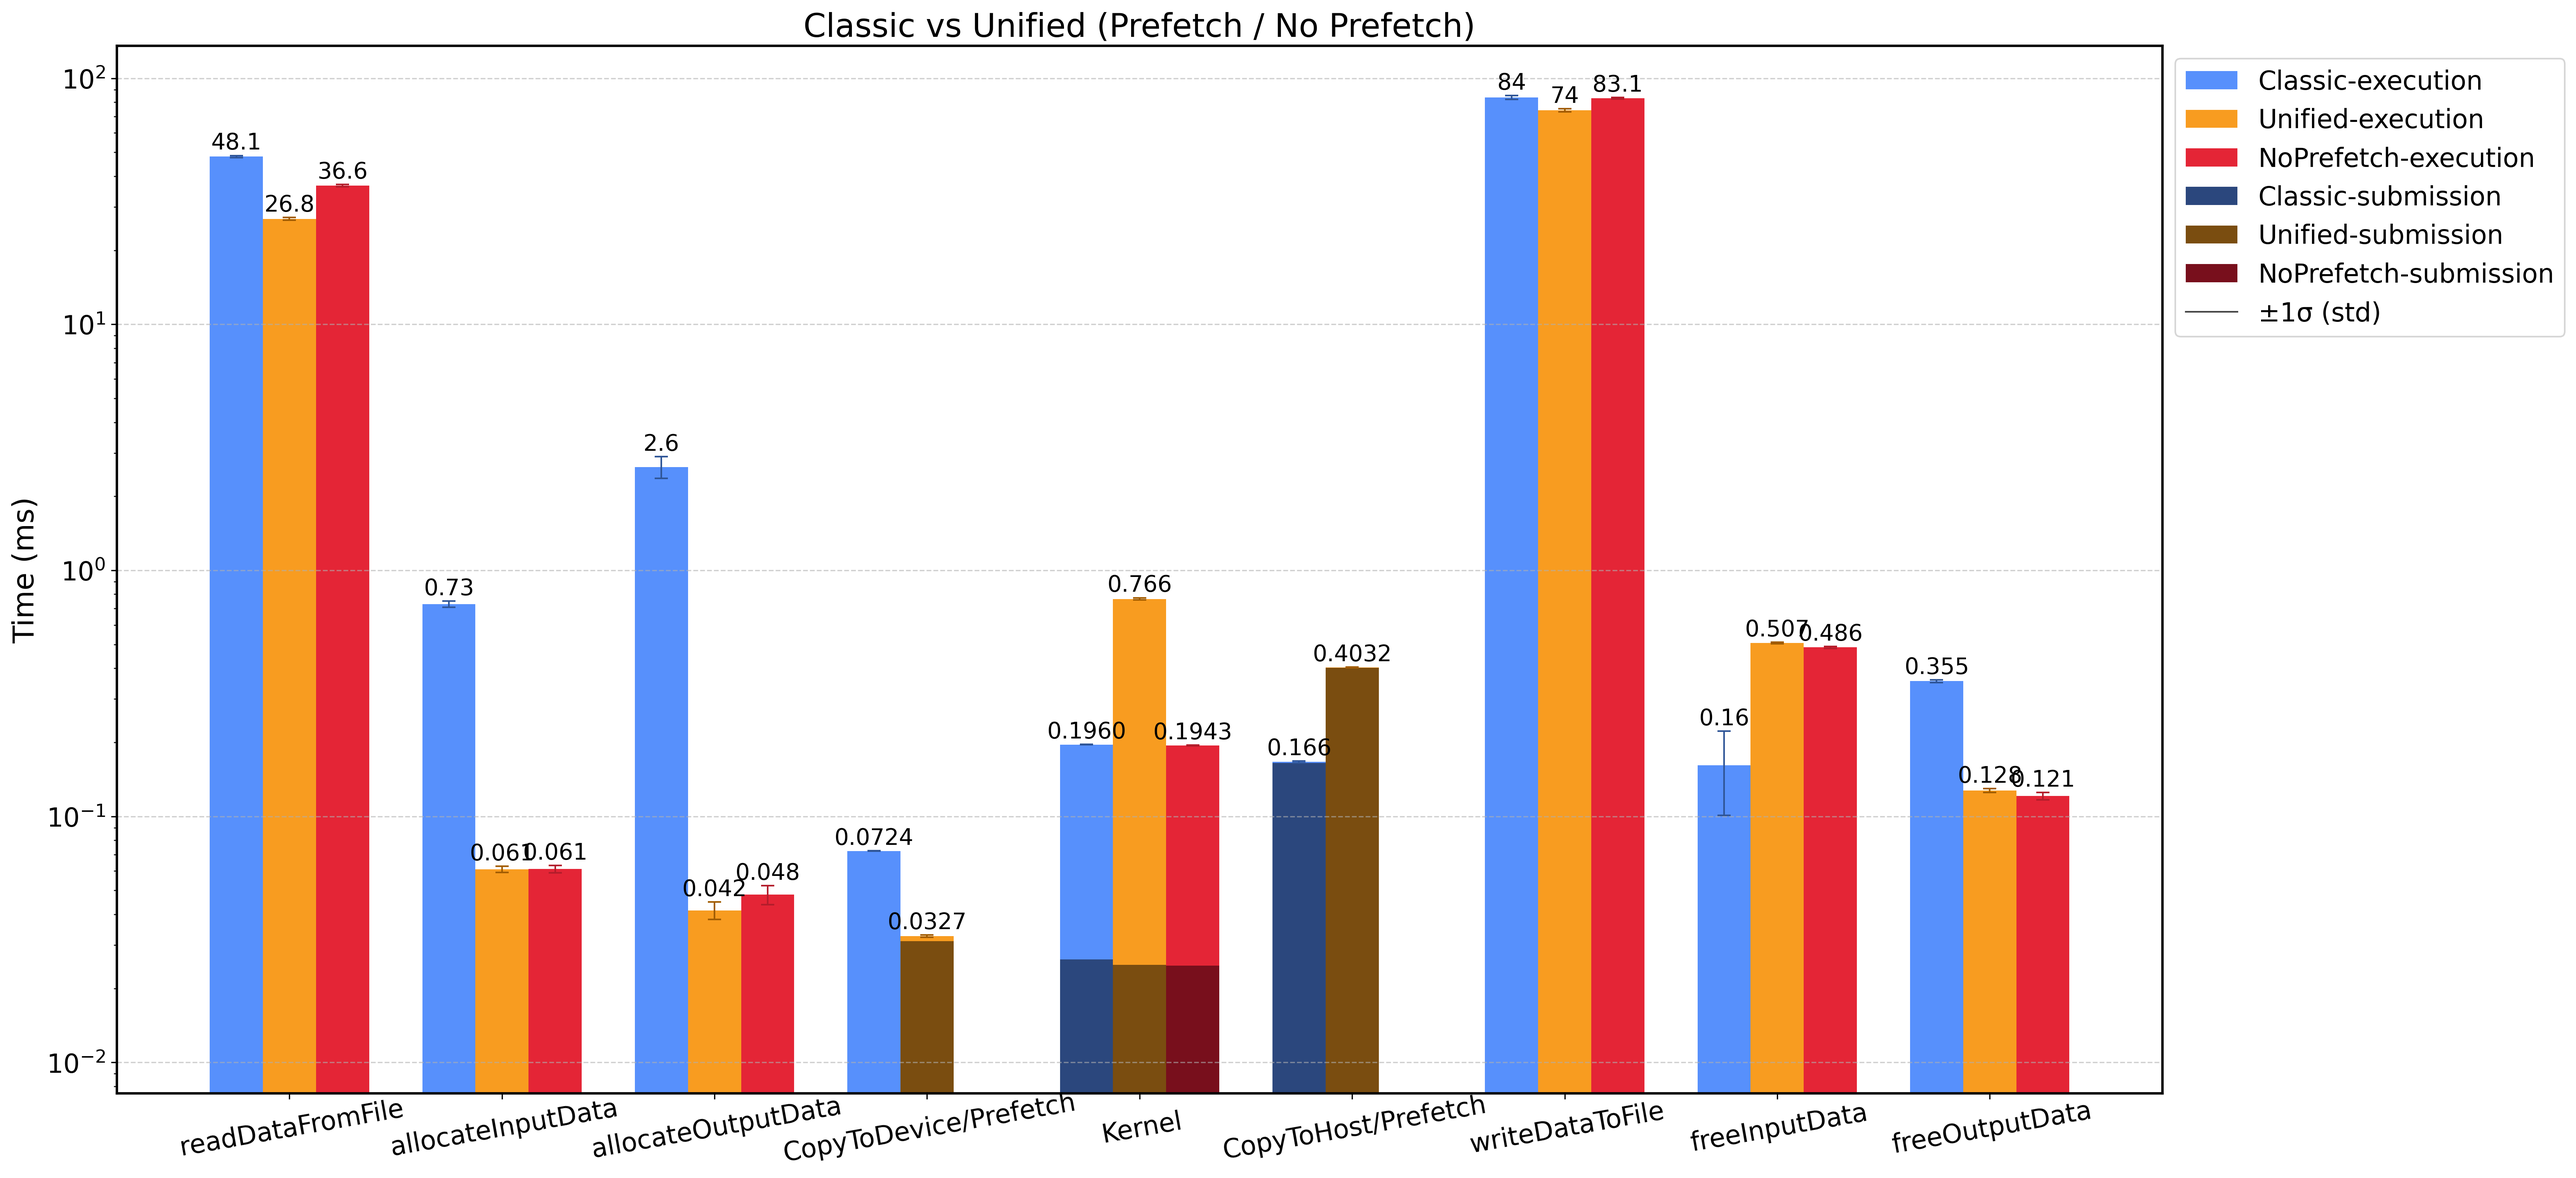
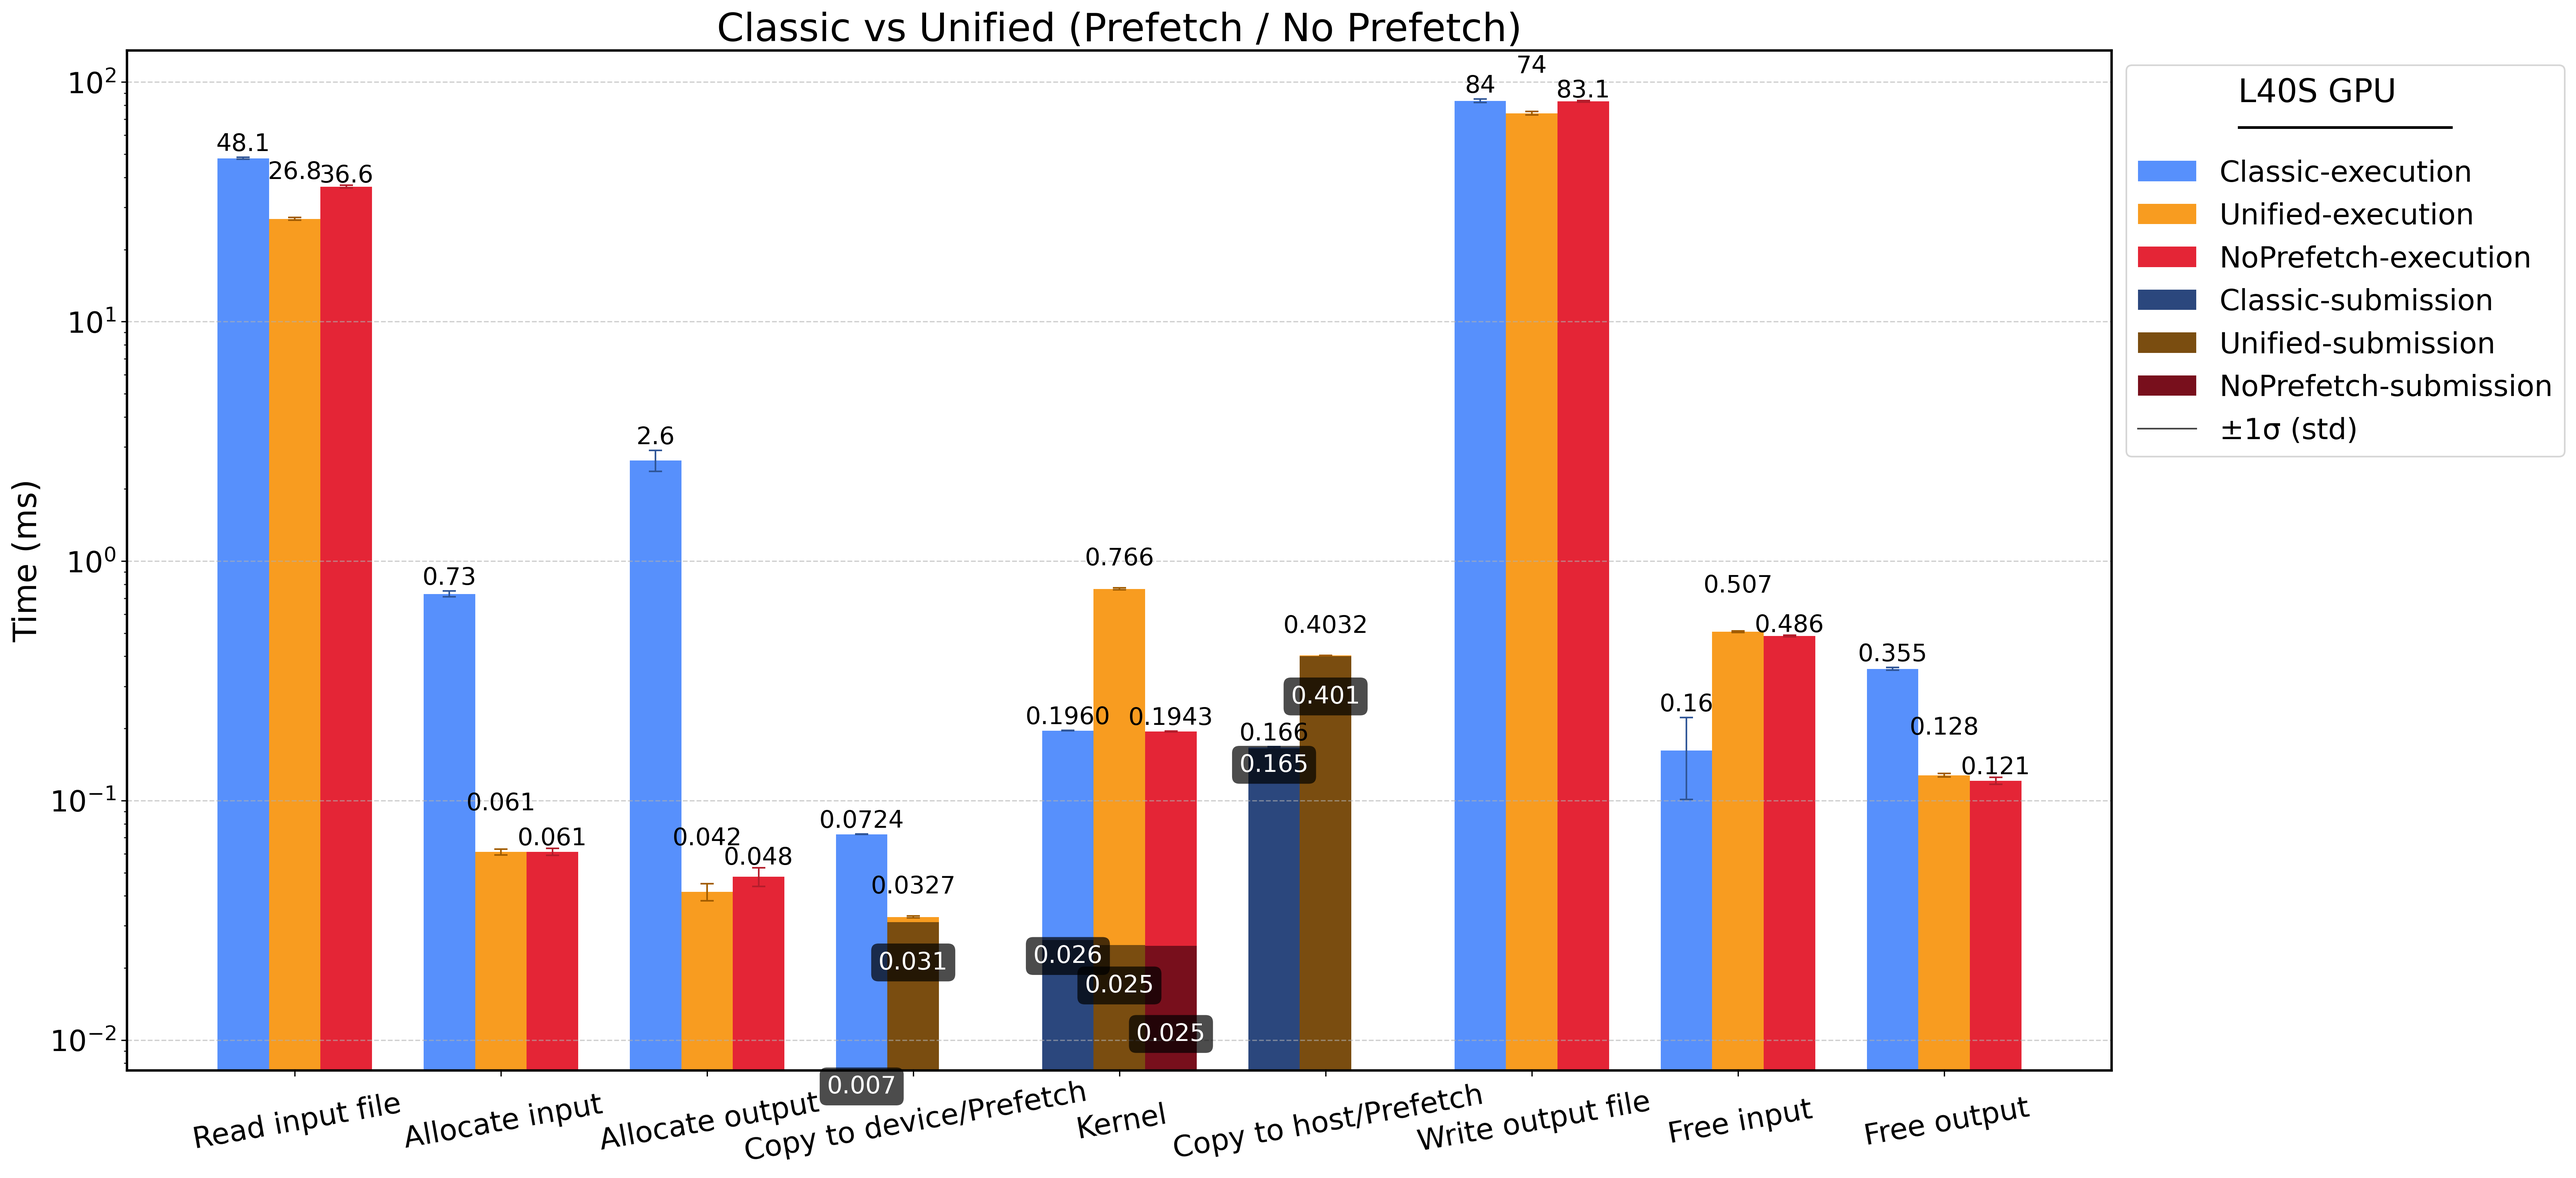
ACAT Plots

diff --git a/Results/compare_timing.py b/Results/compare_timing.py
@@ -138,16 +138,17 @@ merged_std = merged_std.merge(
 # Save for plotting
 merged_mean.to_csv(f"{results}/mean_timing_comparison.csv", index=False)
 
+gpu_name = results.replace("Results_", "")
 
 # === plotting (refactored to avoid repetition) ===
 
 plt.rcParams.update({
-    "font.size": 14,               # default font size
-    "axes.titlesize": 20,          # bigger title
-    "axes.labelsize": 18,          # x and y labels
-    "xtick.labelsize": 16,         # tick labels
-    "ytick.labelsize": 16,
-    "legend.fontsize": 16,
+    "font.size": 15,               # default font size
+    "axes.titlesize": 24,          # bigger title
+    "axes.labelsize": 20,          # x and y labels
+    "xtick.labelsize": 18,         # tick labels
+    "ytick.labelsize": 18,
+    "legend.fontsize": 18,
     "axes.linewidth": 1.5          # thicker border
 })
 
@@ -238,16 +239,23 @@ def get_std(op, col):
         return np.nan
 
 # X-axis order
-SIMPLE_OPS = ["readDataFromFile", "allocateInputData", "allocateOutputData",
-              "writeDataToFile", "freeInputData", "freeOutputData"]
-STACK_OPS  = [("CopyToDevice", "CopyToDevice/Prefetch"),
+SIMPLE_OPS = [
+    ("readDataFromFile", "Read input file"),
+    ("allocateInputData", "Allocate input"),
+    ("allocateOutputData", "Allocate output"),
+    ("writeDataToFile", "Write output file"),
+    ("freeInputData", "Free input"),
+    ("freeOutputData", "Free output")
+]
+
+STACK_OPS  = [("CopyToDevice", "Copy to device/Prefetch"),
               ("MakeClusters", "Kernel"),
-              ("CopyToHost",   "CopyToHost/Prefetch")]
+              ("CopyToHost",   "Copy to host/Prefetch")]
 
 groups_all = []
-for op in SIMPLE_OPS[:3]: groups_all.append(("simple", op, op))
+for key, pretty in SIMPLE_OPS[:3]: groups_all.append(("simple", key, pretty))
 for key, pretty in STACK_OPS: groups_all.append(("stack", key, pretty))
-for op in SIMPLE_OPS[3:]: groups_all.append(("simple", op, op))
+for key, pretty in SIMPLE_OPS[3:]: groups_all.append(("simple", key, pretty))
 
 # Filter groups: keep only ops with at least one valid value
 valid_groups = []
@@ -314,9 +322,9 @@ def draw_plot(ax):
 
             ax.annotate(fmt_mean_with_error(c_val, c_std), (xc, y_at_std_top(c_val, c_std)), xytext=(0, TOP_DY),
                         textcoords="offset points", ha="center", va="bottom", fontsize=FS_TOP)
-            ax.annotate(fmt_mean_with_error(u_val, u_std), (xu, y_at_std_top(u_val, u_std)), xytext=(0, TOP_DY),
+            ax.annotate(fmt_mean_with_error(u_val, u_std), (xu, y_at_std_top(u_val, u_std)), xytext=(0, TOP_DY + 20),
                         textcoords="offset points", ha="center", va="bottom", fontsize=FS_TOP)
-            ax.annotate(fmt_mean_with_error(n_val, n_std), (xn, y_at_std_top(n_val, n_std)), xytext=(0, TOP_DY),
+            ax.annotate(fmt_mean_with_error(n_val, n_std), (xn, y_at_std_top(n_val, n_std)), xytext=(0, TOP_DY - 2),
                         textcoords="offset points", ha="center", va="bottom", fontsize=FS_TOP)
 
             add_errbar(xc, c_val, c_std, c_err)
@@ -349,15 +357,18 @@ def draw_plot(ax):
 
             ax.annotate(fmt_mean_with_error(c_exe, c_exe_std), (xc, y_at_std_top(c_exe, c_exe_std)), xytext=(0, TOP_DY),
                         textcoords="offset points", ha="center", va="bottom", fontsize=FS_TOP)
-            ax.annotate(fmt_mean_with_error(u_exe, u_exe_std), (xu, y_at_std_top(u_exe, u_exe_std)), xytext=(0, TOP_DY),
+            ax.annotate(f"{c_sub:.3f}", (xc, c_sub), xytext=(0, -10), textcoords="offset points", ha="center", va="center", fontsize=FS_TOP, color="white", bbox=dict(boxstyle="round,pad=0.3", fc="black", ec="none", alpha=0.7))
+            ax.annotate(fmt_mean_with_error(u_exe, u_exe_std), (xu, y_at_std_top(u_exe, u_exe_std)), xytext=(0, TOP_DY + 10),
                         textcoords="offset points", ha="center", va="bottom", fontsize=FS_TOP)
+            ax.annotate(f"{u_sub:.3f}", (xu, u_sub), xytext=(0, -25), textcoords="offset points", ha="center", va="center", fontsize=FS_TOP, color="white", bbox=dict(boxstyle="round,pad=0.3", fc="black", ec="none", alpha=0.7))
             ax.annotate(fmt_mean_with_error(n_exe, n_exe_std), (xn, y_at_std_top(n_exe, n_exe_std)), xytext=(0, TOP_DY),
                         textcoords="offset points", ha="center", va="bottom", fontsize=FS_TOP)
+            ax.annotate(f"{n_sub:.3f}", (xn, n_sub/2), xytext=(0, -10), textcoords="offset points", ha="center", va="center", fontsize=FS_TOP, color="white", bbox=dict(boxstyle="round,pad=0.3", fc="black", ec="none", alpha=0.7))
 
     labels = [pretty for _,_,pretty in groups]
     ax.set_xticks(x)
     ax.set_xticklabels(labels, rotation=10, ha="center", rotation_mode="anchor")
-    ax.tick_params(axis="x", pad=10) 
+    ax.tick_params(axis="x", pad=20) 
     ax.set_ylabel("Time (ms)")
     ax.set_title("Classic vs Unified (Prefetch / No Prefetch)")
     ax.grid(axis="y", linestyle="--", alpha=0.6)
@@ -367,7 +378,7 @@ def draw_plot(ax):
     handles, lbls = ax.get_legend_handles_labels()
     if "±1σ (std)" not in lbls:
         handles.append(err_proxy); lbls.append("±1σ (std)")
-    ax.legend(handles, lbls, loc="upper left", bbox_to_anchor=(1, 1))
+    ax.legend(handles, lbls, loc="upper left", bbox_to_anchor=(1, 1), title=f"{gpu_name} GPU\n───────────", title_fontsize=20)
 
 def make_variant(scale="linear", ylim=None, suffix="linear"):
     fig, ax = plt.subplots(figsize=(22, 10), constrained_layout=True)
